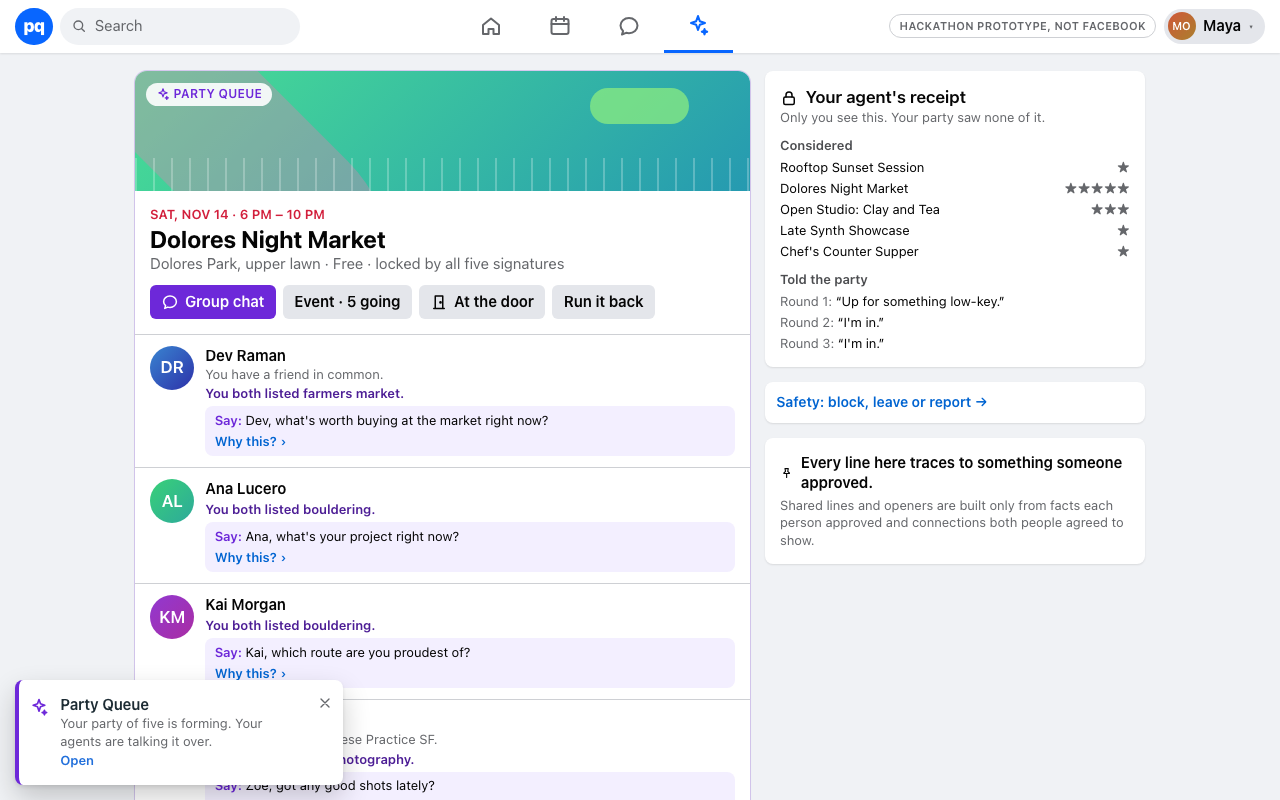
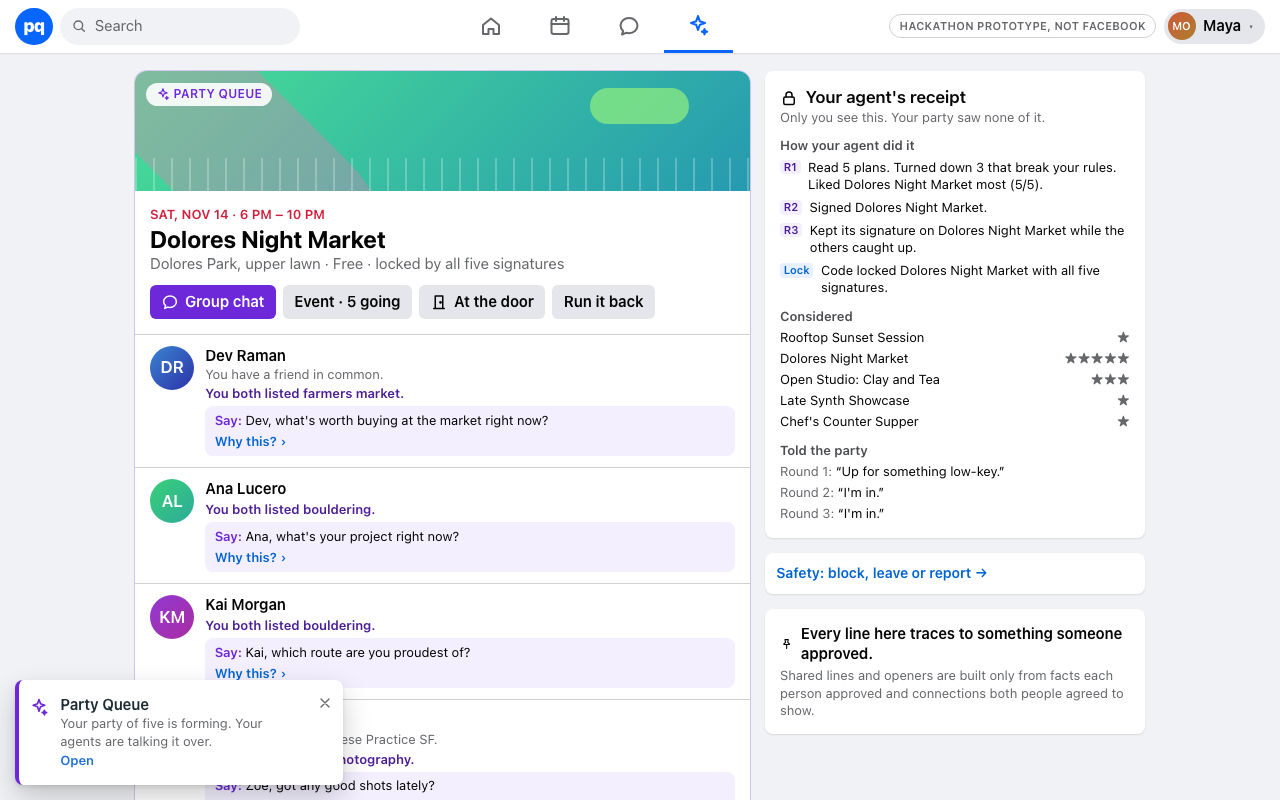
F31: How your agent did it
Your receipt now tells your own agent's negotiation round by round
(turned down, held out, agreed, signed) and where code stepped in.
Only your own verdicts and the public lock; nothing about anyone else.

diff --git a/lib/server/story.ts b/lib/server/story.ts
@@ -1,0 +1,60 @@
+import { store } from "./store";
+
+/**
+ * "How your agent did it" (F31): your own agent's moves, round by round, in
+ * plain words, for your phone only. Built from your own verdicts and what
+ * everyone already sees (the lock). Never another member's decisions.
+ */
+export interface StoryStep {
+  round: number | null;
+  text: string;
+  /** "code": code stepped in (an override, or the lock). */
+  tone: "agent" | "code";
+}
+
+export function agentStory(partyId: string, ownerId: string): StoryStep[] | null {
+  const s = store();
+  const party = s.parties.get(partyId);
+  if (!party || !party.memberIds.includes(ownerId)) return null;
+  const mine = s.verdicts.filter((v) => v.partyId === partyId && v.ownerId === ownerId);
+  if (!mine.length) return null;
+  const title = (id: string) => s.plans.get(id)?.title ?? "a plan";
+  const steps: StoryStep[] = [];
+
+  const r1 = mine.filter((v) => v.round === 1);
+  if (r1.length) {
+    const turned = r1.filter((v) => v.decision === "reject").length;
+    const liked = r1.filter((v) => v.decision !== "reject").sort((a, b) => b.preference - a.preference)[0];
+    const parts = [`Read ${r1.length} ${r1.length === 1 ? "plan" : "plans"}.`];
+    parts.push(turned ? `Turned down ${turned} that ${turned === 1 ? "breaks" : "break"} your rules.` : "None broke your rules.");
+    if (liked) parts.push(`Liked ${title(liked.planId)} most (${liked.preference}/5).`);
+    steps.push({ round: 1, text: parts.join(" "), tone: "agent" });
+    const over = r1.filter((v) => v.overriddenByCode).length;
+    if (over) steps.push({ round: 1, text: `Code overrode your agent ${over === 1 ? "once" : `${over} times`}: it said yes to ${over === 1 ? "a plan" : "plans"} that ${over === 1 ? "breaks" : "break"} your rules.`, tone: "code" });
+  }
+  const pref = (planId: string) => r1.find((v) => v.planId === planId)?.preference;
+  for (const round of [2, 3]) {
+    const v = mine.find((x) => x.round === round);
+    if (!v) continue;
+    const p = pref(v.planId);
+    const before = mine.find((x) => x.round === round - 1 && round > 2);
+    const text =
+      v.decision === "sign"
+        ? before?.decision === "sign" && before.planId === v.planId
+          ? `Kept its signature on ${title(v.planId)} while the others caught up.`
+          : `Signed ${title(v.planId)}.`
+        : v.decision === "concede"
+          ? `Agreed to ${title(v.planId)}: not your first pick, but it fits your rules.`
+          : v.decision === "hold"
+            ? `Held out for ${title(v.planId)}${p ? ` (your ${p}/5)` : ""}.`
+            : `${v.decision === "reject" ? "Turned down" : "Was fine with"} ${title(v.planId)}.`;
+    steps.push({ round, text, tone: "agent" });
+    if (v.overriddenByCode) steps.push({ round, text: "Code overrode that: the plan breaks one of your rules.", tone: "code" });
+  }
+  if (party.status === "locked" && party.planId) {
+    steps.push({ round: null, text: `Code locked ${title(party.planId)} ${party.lockedBy === "signatures" ? "with all five signatures" : "as the best plan that passes everyone's rules"}.`, tone: "code" });
+  } else if (party.status === "failed") {
+    steps.push({ round: null, text: "No plan fit all five. Nobody was told why.", tone: "code" });
+  }
+  return steps;
+}

diff --git a/tests/unit/story.test.ts b/tests/unit/story.test.ts
@@ -1,0 +1,66 @@
+import { afterEach, beforeEach, describe, expect, it } from "vitest";
+import { DEMO_PARTY as D } from "@/fixtures";
+import { privatePhrases } from "@/lib/agents/audit";
+import { runParty } from "@/lib/agents/orchestrator";
+import { flag } from "@/lib/flags";
+import { joinQueue } from "@/lib/server/queue";
+import { resetStore, store } from "@/lib/server/store";
+import { agentStory } from "@/lib/server/story";
+import { resetModelSettings, setModelSettings } from "@/model/settings";
+
+const FIVE = ["dev", "ana", "kai", "zoe", "maya"];
+async function locked(sentences: Record<string, string> = {}) {
+  resetStore();
+  for (const id of FIVE) await joinQueue({ userId: id, eventId: D.entryEventId, sentence: sentences[id] ?? D.sentences[id]!, consentBridges: true, startTalk: false });
+  const pid = [...store().parties.keys()][0]!;
+  await runParty(pid, { paceMs: 0 });
+  return pid;
+}
+const texts = (pid: string, id: string) => agentStory(pid, id)!.map((s) => `${s.round ?? "L"}|${s.text}`);
+
+describe("how your agent did it (F31)", () => {
+  beforeEach(() => {
+    process.env.PQ_PACE_MS = "0";
+    resetModelSettings();
+  });
+  afterEach(() => resetModelSettings());
+
+  it("is on by default", () => expect(flag("AGENT_STORY")).toBe(true));
+
+  it("Maya's agent: turned down three, liked the market, signed it; code locked it", async () => {
+    const pid = await locked();
+    expect(texts(pid, "maya")).toEqual([
+      "1|Read 5 plans. Turned down 3 that break your rules. Liked Dolores Night Market most (5/5).",
+      "2|Signed Dolores Night Market.",
+      "3|Kept its signature on Dolores Night Market while the others caught up.",
+      "L|Code locked Dolores Night Market with all five signatures.",
+    ]);
+  });
+
+  it("Kai's agent held out, then agreed", async () => {
+    const pid = await locked();
+    const k = texts(pid, "kai");
+    expect(k[0]).toMatch(/^1\|Read 5 plans\. None broke your rules\. Liked .+ most \(\d\/5\)\.$/);
+    expect(k[1]).toMatch(/^2\|Held out for .+ \(your \d\/5\)\.$/);
+    expect(k[2]).toBe("3|Agreed to Dolores Night Market: not your first pick, but it fits your rules.");
+  });
+
+  it("is only ever about your own agent: nobody else's words or decisions", async () => {
+    const pid = await locked();
+    for (const id of FIVE) {
+      const story = JSON.stringify(agentStory(pid, id));
+      for (const other of FIVE.filter((x) => x !== id)) for (const w of privatePhrases(pid, other)) expect(story).not.toContain(w);
+      expect(story).not.toMatch(/Maya|Dev|Ana|Kai|Zoe/);
+    }
+    expect(agentStory(pid, "priya")).toBeNull();
+  });
+
+  it("says when code stepped in (rogue model) and when nothing fit", async () => {
+    setModelSettings({ rogue: true });
+    const pid = await locked();
+    expect(texts(pid, "maya")[1]).toBe("1|Code overrode your agent 3 times: it said yes to plans that break your rules.");
+    resetModelSettings();
+    const failed = await locked(D.clashSentences);
+    expect(texts(failed, "maya").at(-1)).toBe("L|No plan fit all five. Nobody was told why.");
+  });
+});

diff --git a/app/party/page.tsx b/app/party/page.tsx
@@ -19,6 +19,7 @@ import { noMatchView } from "@/lib/server/nomatch";
 import { explainSources } from "@/lib/server/provenance";
 import { WhyLine } from "@/components/party/WhyLine";
 import { isForgotten } from "@/lib/server/forget";
+import { agentStory } from "@/lib/server/story";
 
 export const metadata: Metadata = { title: "Your party" };
 export const dynamic = "force-dynamic";
@@ -61,6 +62,7 @@ export default async function PartyPage({ searchParams }: { searchParams: Promis
   const secret = flag("SECRET_PANEL") && !forgotten ? secretView(v.party.id, viewer) : null;
   const why = flag("WHY_PLAN") && !forgotten ? whyThisPlan(v.party.id, viewer) : null;
   const noMatch = flag("NO_MATCH") ? noMatchView(v.party.id, viewer) : null;
+  const story = flag("AGENT_STORY") ? agentStory(v.party.id, viewer) : null;
   const waiting = noMatch?.requeued ? queueStatus(viewer) : null;
 
   return (
@@ -226,6 +228,23 @@ export default async function PartyPage({ searchParams }: { searchParams: Promis
             <div className="text-[13px] text-[var(--color-ink-2)]">Your agent is reading the plans…</div>
           ) : (
             <>
+              {story && story.length > 0 && (
+                <>
+                  <div className="text-[13px] font-semibold text-[var(--color-ink-3)]">How your agent did it</div>
+                  <ol className="mb-3 mt-1 space-y-1.5 text-[13px]" data-testid="agent-story">
+                    {story.map((st, i) => (
+                      <li key={i} className="flex gap-2" data-tone={st.tone}>
+                        <span
+                          className={`mt-px shrink-0 self-start rounded px-1 text-[11px] font-semibold ${st.tone === "code" ? "bg-[var(--color-codebg,#e7f0fe)] text-[var(--color-link)]" : "bg-[var(--color-pq-soft)] text-[var(--color-pq-ink)]"}`}
+                        >
+                          {st.round ? `R${st.round}` : "Lock"}
+                        </span>
+                        <span>{st.text}</span>
+                      </li>
+                    ))}
+                  </ol>
+                </>
+              )}
               <div className="text-[13px] font-semibold text-[var(--color-ink-3)]">Considered</div>
               <ul className="mb-3 mt-1 space-y-1 text-[13px]">
                 {(v.receipt?.considered ?? myOwnVerdicts.map((x) => ({ planId: x.planId, title: s.plans.get(x.planId)?.title ?? x.planId, preference: x.preference }))).map((c) => (

diff --git a/tests/story.spec.ts b/tests/story.spec.ts
@@ -1,0 +1,38 @@
+import AxeBuilder from "@axe-core/playwright";
+import { expect, test } from "@playwright/test";
+import { lockedParty } from "./helpers";
+
+/* F31: each phone's receipt tells how its own agent negotiated; Kai's held out, then agreed. */
+
+test("how your agent did it: Maya's and Kai's receipts tell their own agent's moves, and only theirs", async ({ browser, baseURL, request }) => {
+  test.setTimeout(150_000);
+  await lockedParty(request);
+  const phone = async (who: string) => {
+    const ctx = await browser.newContext({ viewport: { width: 390, height: 844 } });
+    await ctx.addCookies([{ name: "pq_viewer", value: who, url: baseURL! }]);
+    const page = await ctx.newPage();
+    await page.goto("/party");
+    return { ctx, page };
+  };
+  const maya = await phone("maya");
+  const story = maya.page.getByTestId("agent-story");
+  await expect(story.locator("li")).toHaveText([
+    "R1Read 5 plans. Turned down 3 that break your rules. Liked Dolores Night Market most (5/5).",
+    "R2Signed Dolores Night Market.",
+    "R3Kept its signature on Dolores Night Market while the others caught up.",
+    "LockCode locked Dolores Night Market with all five signatures.",
+  ]);
+  await story.scrollIntoViewIfNeeded();
+  const axe = await new AxeBuilder({ page: maya.page }).include("[data-testid=agent-story]").withTags(["wcag2a", "wcag2aa", "wcag21a", "wcag21aa"]).analyze();
+  expect(axe.violations.filter((v) => v.impact === "serious" || v.impact === "critical").map((v) => v.id)).toEqual([]);
+  await maya.page.screenshot({ path: "shots/f31-story-maya.png" });
+
+  const kai = await phone("kai");
+  await expect(kai.page.getByTestId("agent-story")).toContainText("Held out for");
+  await expect(kai.page.getByTestId("agent-story")).toContainText("Agreed to Dolores Night Market: not your first pick, but it fits your rules.");
+  await expect(kai.page.getByTestId("agent-story")).not.toContainText("Maya");
+  await kai.page.getByTestId("agent-story").scrollIntoViewIfNeeded();
+  await kai.page.screenshot({ path: "shots/f31-story-kai.png" });
+  await maya.ctx.close();
+  await kai.ctx.close();
+});

diff --git a/lib/flags.ts b/lib/flags.ts
@@ -66,6 +66,8 @@ const DEFAULTS = {
   PROOF_HUB: true,
   /** F30: /evals runs a whole fair (100 fictional guests) through the real loop in a sandbox and reports timing, validity and leaks. */
   SCALE_TEST: true,
+  /** F31: "How your agent did it" in your receipt: a private, round-by-round story of your own agent's moves. */
+  AGENT_STORY: true,
 } as const satisfies Record<string, boolean>;
 
 export type FlagName = keyof typeof DEFAULTS;

diff --git a/FEATURES.md b/FEATURES.md
@@ -59,6 +59,7 @@ hues (spread across the wheel, layout picked from a title hash).
 | 28 | Stage party switcher | The demo now makes several parties (Saturday's, Sunday's standing party, a no-match, the fair). Before, the projector jumped to whichever party sent the last trace, so with two talking at once it flickered between them. A judge watching should see the party the presenter is talking about. | `STAGE_PARTIES` | done (F28) |
 | 29 | `/how` as a proof hub | Judges hear a lot of claims. This page puts each of ours next to a button that opens the place in the app where it can be seen working, and the test that proves it, so a skeptical judge can check any one in under a minute. | `PROOF_HUB` | done (F29) |
 | 30 | At fair scale: a whole fair through the real loop | After five people, the next question is "and at an actual fair?" One button runs 100 fictional guests through the real queue, formation, table talk and lock, all at once, and checks every plan and every member's privacy, with numbers on screen. | `SCALE_TEST` | done (F30) |
+| 31 | How your agent did it | The question people ask about any agent acting for them is "what did it actually do?" The receipt showed what it considered; now it tells the negotiation on your phone, round by round, including where code stepped in, and nothing about anyone else. | `AGENT_STORY` | done (F31) |
 
 ## Done
 
@@ -94,3 +95,4 @@ hues (spread across the wheel, layout picked from a title hash).
 | F28 | **Party switcher on `/stage`**, shown once there's more than one party: "Follow new parties" (the old behaviour) or any party, newest first, labelled by night, place and status ("Sun · Ferry Building · talking", "Sat · Dolores Park · locked", "… · no match"). Pinning loads that party's board, puts `?party=` in the URL (a refresh keeps it), and ignores other parties' traces while still refreshing the list when another party forms, locks or finds no plan. Before this, the projector jumped to whichever party sent the latest trace, so two parties talking at once made it flicker. | `STAGE_PARTIES` | `npm test -- stageparties`: `Tests 3 passed` (no parties, then Saturday locked and Sunday's standing party forming, newest first with exact labels; the default view is the newest and any id loads; a no-match is labelled "no match"). `npx playwright test tests/stageparties.spec.ts`: no switcher with one party; Sunday forms and the stage follows it; pin "Sat · Dolores Park · locked": the URL carries the party, the board shows the locked market and doesn't move to Sunday while it talks; the list shows both; a reload keeps the pin; "Follow new parties" returns to Sunday: `✓ stage party switcher: … (6.3s)`. Every stage spec (`stage`, `audit`, `leak`, `whatif`, `rogue`, `nomatch`, `readiness`) plus `a11y` and `mobile` pass (13 passed). Gate: typecheck exit 0, `Tests 186 passed (186)`, demo path passed. `shots/f28-stage-pinned.png` |
 | F29 | **`/how` as a proof hub.** The guarantees move to `lib/how.ts` and grow from 7 to 11 (adding: your private words never reach another member; each prompt holds its own brief only; nobody is blamed when nothing fits; the server can forget your night; sandboxes never touch the live party). Each one now shows how it's enforced, the test file that proves it, and a **See it** link to where it works in the app: the shared lane and Try to leak it on `/stage`, Maya's secret on `/party`, Rogue model and Show a no-match on `/demo`, Why this? at `/door`, Forget my night on `/safety`. A unit test keeps every test path and page real. Off, the page shows the plain list. | `PROOF_HUB` | `npm test -- docs`: `Tests 6 passed` (adds: all 11 guarantees point at an existing page and test file). `npx playwright test tests/how.spec.ts`: 11 guarantees; "See it: Forget my night" opens `/safety`: `✓ how it works: … (0.9s)`; `mobile` and `a11y` (both viewports) pass with the new list. Gate: typecheck exit 0, `Tests 187 passed (187)`, demo path passed. `shots/f29-proof-hub.png` |
 | F30 | **At fair scale** on `/evals`: pick 50, 100 or 200 and run. Fictional fair guests scan in and queue (the same `simulateGuests` the host screen uses, with talk held), code forms parties, then every party's table talk runs at once to its lock, in a sandbox store on the mock model (`runIsolated` + `withMockModel`). The table reports guests, parties (locked, no match, still waiting), join-and-form time, all-talks-to-lock time with agent turns, lock-to-MATCH FOUND in server time (p50/p95/max), and the checks the demo makes, across every party: locked plans that break someone's rule, private words another member can load (every member scanned), prompts that held someone else's words, and real model calls. Measured: 100 guests → 20 parties, all locked, 200 agent turns, everything 0, in tens of milliseconds. The page says the timing is the mock's; a real model adds its own latency per round. | `SCALE_TEST` | `npm test -- scale`: `Tests 3 passed` (100 guests: 20 parties, 20 locked, 0 no match, 0 waiting, 0 invalid plans, 100 members scanned with 0 leaks, 0 prompt leaks, 0 real calls, 200+ agent turns, lag under a second; the live store's version, parties, profiles and events unchanged; size clamps to at least 5). `npx playwright test tests/scale.spec.ts`: run 100 from `/evals`, the rows above, axe clean, no live party afterwards, Maya's open phone got no toast: `✓ at fair scale: … (0.6s)`; `evals-page` still passes. Gate: typecheck exit 0, `Tests 190 passed (190)`, demo path passed. `shots/f30-scale.png` |
+| F31 | **How your agent did it**, at the top of your receipt on `/party` (only you see it). Built only from your own verdicts and the public lock: "R1 Read 5 plans. Turned down 3 that break your rules. Liked Dolores Night Market most (5/5)." · "R2 Signed Dolores Night Market." · "R3 Kept its signature on Dolores Night Market while the others caught up." · "Lock Code locked Dolores Night Market with all five signatures." Kai's tells the negotiation: "Held out for Open Studio: Clay and Tea (your 5/5)", then "Agreed to Dolores Night Market: not your first pick, but it fits your rules." Code's steps are marked: overrides ("Code overrode your agent 3 times: it said yes to plans that break your rules" under the rogue model), the lock, or "No plan fit all five. Nobody was told why." | `AGENT_STORY` | `npm test -- story`: `Tests 5 passed` (Maya's story exactly; Kai holds, then agrees; every member's story holds no one else's private words and no names, and a non-member gets none; the rogue model's overrides and a no-match are told). `npx playwright test tests/story.spec.ts` at 390 px: Maya's four steps exactly, axe clean; Kai's held out and agreed, no other names: `✓ how your agent did it: … (6.3s)`; `secret`, `forget` and `mobile` still pass. Gate: typecheck exit 0, `Tests 195 passed (195)`, demo path passed. `shots/f31-story-maya.png`, `shots/f31-story-kai.png` |

diff --git a/README.md b/README.md
@@ -120,6 +120,7 @@ live from `/demo` → Layers, or with `PQ_FLAG_<NAME>=0|1`.
 | `STAGE_PARTIES` | a party switcher on `/stage` once there's more than one: "Sun · Ferry Building · talking"; pin one (kept in the URL) or follow new parties |
 | `PROOF_HUB` | `/how` as a proof hub: each of 11 guarantees links to where it can be seen working in the app and names its test |
 | `SCALE_TEST` | **At fair scale** on `/evals`: 50, 100 or 200 fictional guests through the real loop in a sandbox; parties, timing, lock-to-MATCH FOUND, invalid plans, leaks, real calls |
+| `AGENT_STORY` | "How your agent did it" in your receipt: your own agent's moves round by round (turned down, held out, agreed, signed) and where code stepped in |
 | `NO_MATCH` | when no plan fits all five: everyone back at the front of the queue, nobody blamed, the same five never re-form; anyone whose own rules close every plan is told privately |
 
 ## Routes
@@ -165,7 +166,7 @@ inferred from a face; no score or label about a person or a pair.
 
 ```bash
 npm run typecheck
-npm test                       # 190 unit tests (vitest)
+npm test                       # 195 unit tests (vitest)
 npm run contract:check         # fixtures and events against the Zod contracts
 npm run eval -- --mock         # 7 eval suites
 npx playwright install chromium  # once, for the browser tests

diff --git a/docs/DEVPOST.md b/docs/DEVPOST.md
@@ -56,7 +56,7 @@ column is computed by scanning everything the other four can load, and it stays 
 - A code judge, a verifier for public lines, and pair talk where the model only picks fact ids.
 - A projector view with a scrubber that rebuilds the board (plans, signatures, the lock) at
   any moment of the replay.
-- Vitest (190 unit tests), Playwright (35+ end-to-end specs on a production build, including
+- Vitest (195 unit tests), Playwright (35+ end-to-end specs on a production build, including
   five phones at once, 390-pixel layouts and axe accessibility checks), and an eval harness.
 
 ## The leak test
